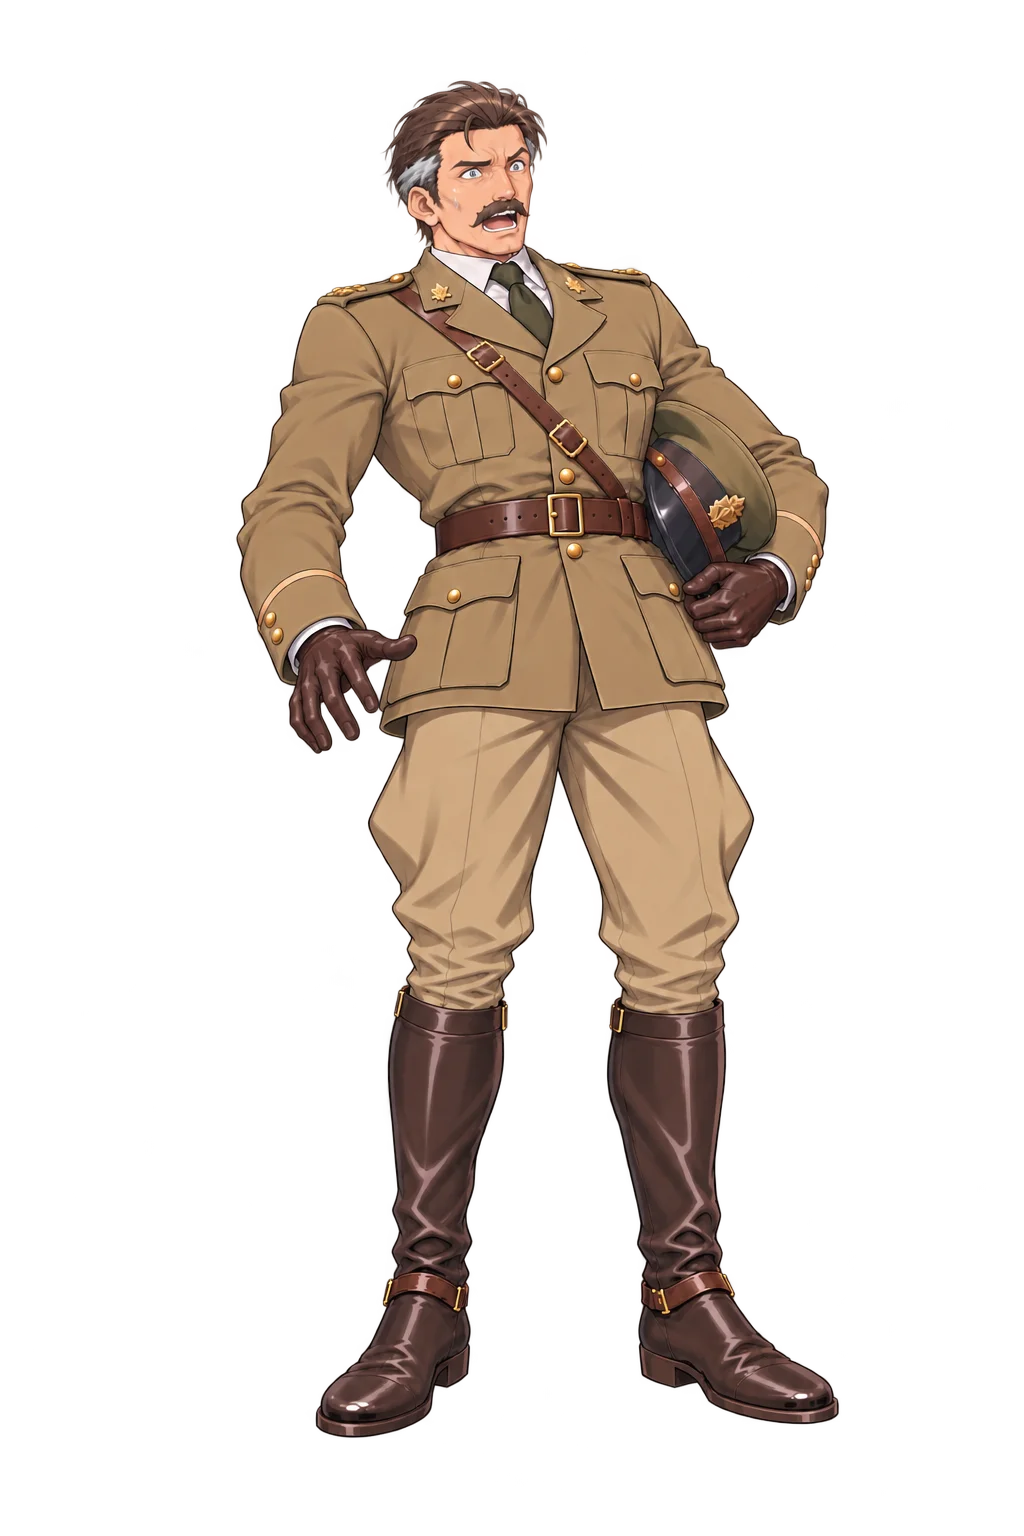
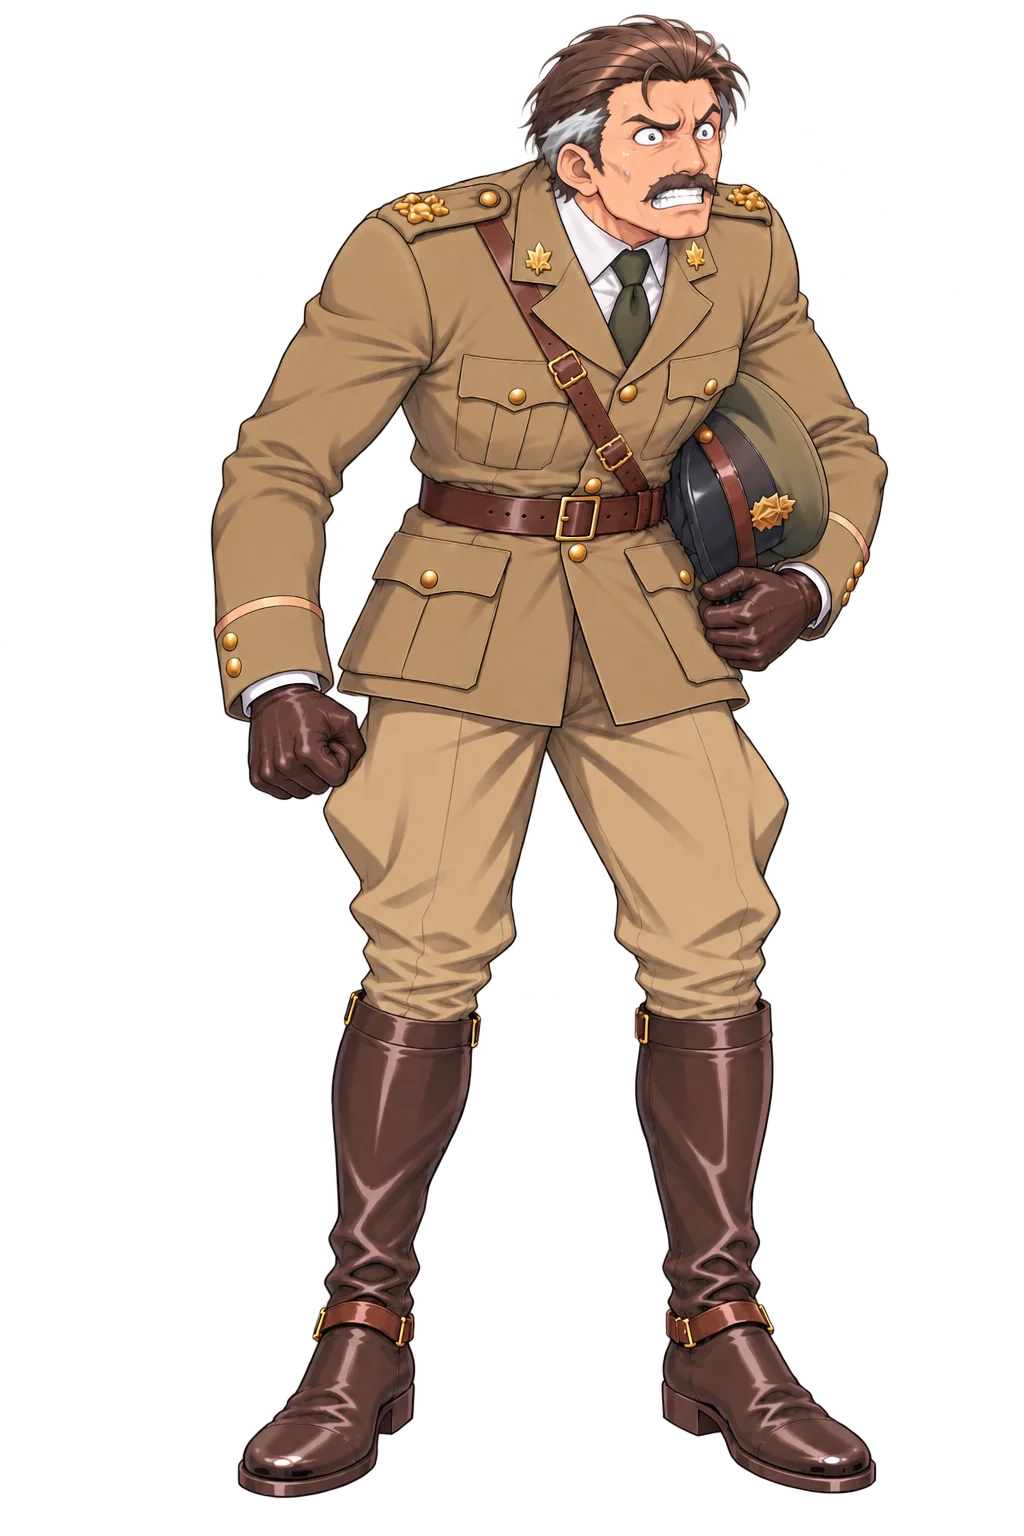
ver -2339／-2340 阿什弗德「震驚」差分重畫：咬牙瞪眼、握拳、冷汗、身體前傾（GPT 直出 alpha，同名覆蓋，取景重量）

Changed region(s): [[0.1875, 0.0, 0.875, 1.0]]

diff --git a/index.html b/index.html
@@ -16,7 +16,7 @@
 <link rel="apple-touch-icon" href="resources/background/tivot_emblem.png?v=9220f8bb">
 <title>TIVOT</title>
 <!-- 全域鎖直向（真鎖 + 橫向擋板）；classic script，需在版面就緒前掛上 -->
-<script src="orientation.js?v=2338"></script>
+<script src="orientation.js?v=2340"></script>
 <!-- 離線包（ver -2256）：註冊 sw.js；主畫面 App 裡出現「下載離線包」鈕 -->
 <script src="offline.js"></script>
 <!-- ══ 效能探針・計數層（ver -850，Ray：「沒有辦法寫一個偵測程式進去看是什麼
@@ -65,74 +65,74 @@
 <script type="importmap">
 {
   "imports": {
-    "./audio.js": "./audio.js?v=2338",
-    "./config.js": "./config.js?v=2338",
-    "./i18n.js": "./i18n.js?v=2338",
-    "./main.js": "./main.js?v=2338",
-    "./offline.js": "./offline.js?v=2338",
-    "./orientation.js": "./orientation.js?v=2338",
-    "./state.js": "./state.js?v=2338",
-    "./sw.js": "./sw.js?v=2338",
-    "./telemetry.js": "./telemetry.js?v=2338",
-    "./modules/beatpick.js": "./modules/beatpick.js?v=2338",
-    "./modules/blink.js": "./modules/blink.js?v=2338",
-    "./modules/breath.js": "./modules/breath.js?v=2338",
-    "./modules/combat.js": "./modules/combat.js?v=2338",
-    "./modules/defense.js": "./modules/defense.js?v=2338",
-    "./modules/enemy.js": "./modules/enemy.js?v=2338",
-    "./modules/eyefx.js": "./modules/eyefx.js?v=2338",
-    "./modules/gear.js": "./modules/gear.js?v=2338",
-    "./modules/groundShadow.js": "./modules/groundShadow.js?v=2338",
-    "./modules/haptics.js": "./modules/haptics.js?v=2338",
-    "./modules/inn.js": "./modules/inn.js?v=2338",
-    "./modules/inspector.js": "./modules/inspector.js?v=2338",
-    "./modules/loot.js": "./modules/loot.js?v=2338",
-    "./modules/partner.js": "./modules/partner.js?v=2338",
-    "./modules/saint.js": "./modules/saint.js?v=2338",
-    "./modules/sakura.js": "./modules/sakura.js?v=2338",
-    "./modules/save.js": "./modules/save.js?v=2338",
-    "./modules/settings.js": "./modules/settings.js?v=2338",
-    "./modules/story.js": "./modules/story.js?v=2338",
-    "./modules/sway.js": "./modules/sway.js?v=2338",
-    "./modules/tone.js": "./modules/tone.js?v=2338",
-    "./modules/town.js": "./modules/town.js?v=2338",
-    "./modules/transition.js": "./modules/transition.js?v=2338",
-    "./modules/tutorial.js": "./modules/tutorial.js?v=2338",
-    "./modules/weapon.js": "./modules/weapon.js?v=2338",
-    "./script/bg_index.js": "./script/bg_index.js?v=2338",
-    "./script/blink.js": "./script/blink.js?v=2338",
-    "./script/clock.js": "./script/clock.js?v=2338",
-    "./script/enemies.js": "./script/enemies.js?v=2338",
-    "./script/evaluation.js": "./script/evaluation.js?v=2338",
-    "./script/eyefx.js": "./script/eyefx.js?v=2338",
-    "./script/inventory.js": "./script/inventory.js?v=2338",
-    "./script/loadout.js": "./script/loadout.js?v=2338",
-    "./script/mainScript.js": "./script/mainScript.js?v=2338",
-    "./script/progress.js": "./script/progress.js?v=2338",
-    "./script/shopcards.js": "./script/shopcards.js?v=2338",
-    "./script/shopstock.js": "./script/shopstock.js?v=2338",
-    "./script/speakers.js": "./script/speakers.js?v=2338",
-    "./script/sway.js": "./script/sway.js?v=2338",
-    "./script/town.js": "./script/town.js?v=2338",
-    "./script/weapons.js": "./script/weapons.js?v=2338",
-    "./i18n/en.js": "./i18n/en.js?v=2338",
-    "./i18n/es.js": "./i18n/es.js?v=2338",
-    "./i18n/ja.js": "./i18n/ja.js?v=2338",
-    "./i18n/scriptTr.js": "./i18n/scriptTr.js?v=2338",
-    "./i18n/zh.js": "./i18n/zh.js?v=2338",
-    "./i18n/script/es.classic.js": "./i18n/script/es.classic.js?v=2338",
-    "./i18n/script/es.js": "./i18n/script/es.js?v=2338",
-    "./i18n/ui/es.classic.js": "./i18n/ui/es.classic.js?v=2338",
-    "./i18n/ui/es.js": "./i18n/ui/es.js?v=2338"
+    "./audio.js": "./audio.js?v=2340",
+    "./config.js": "./config.js?v=2340",
+    "./i18n.js": "./i18n.js?v=2340",
+    "./main.js": "./main.js?v=2340",
+    "./offline.js": "./offline.js?v=2340",
+    "./orientation.js": "./orientation.js?v=2340",
+    "./state.js": "./state.js?v=2340",
+    "./sw.js": "./sw.js?v=2340",
+    "./telemetry.js": "./telemetry.js?v=2340",
+    "./modules/beatpick.js": "./modules/beatpick.js?v=2340",
+    "./modules/blink.js": "./modules/blink.js?v=2340",
+    "./modules/breath.js": "./modules/breath.js?v=2340",
+    "./modules/combat.js": "./modules/combat.js?v=2340",
+    "./modules/defense.js": "./modules/defense.js?v=2340",
+    "./modules/enemy.js": "./modules/enemy.js?v=2340",
+    "./modules/eyefx.js": "./modules/eyefx.js?v=2340",
+    "./modules/gear.js": "./modules/gear.js?v=2340",
+    "./modules/groundShadow.js": "./modules/groundShadow.js?v=2340",
+    "./modules/haptics.js": "./modules/haptics.js?v=2340",
+    "./modules/inn.js": "./modules/inn.js?v=2340",
+    "./modules/inspector.js": "./modules/inspector.js?v=2340",
+    "./modules/loot.js": "./modules/loot.js?v=2340",
+    "./modules/partner.js": "./modules/partner.js?v=2340",
+    "./modules/saint.js": "./modules/saint.js?v=2340",
+    "./modules/sakura.js": "./modules/sakura.js?v=2340",
+    "./modules/save.js": "./modules/save.js?v=2340",
+    "./modules/settings.js": "./modules/settings.js?v=2340",
+    "./modules/story.js": "./modules/story.js?v=2340",
+    "./modules/sway.js": "./modules/sway.js?v=2340",
+    "./modules/tone.js": "./modules/tone.js?v=2340",
+    "./modules/town.js": "./modules/town.js?v=2340",
+    "./modules/transition.js": "./modules/transition.js?v=2340",
+    "./modules/tutorial.js": "./modules/tutorial.js?v=2340",
+    "./modules/weapon.js": "./modules/weapon.js?v=2340",
+    "./script/bg_index.js": "./script/bg_index.js?v=2340",
+    "./script/blink.js": "./script/blink.js?v=2340",
+    "./script/clock.js": "./script/clock.js?v=2340",
+    "./script/enemies.js": "./script/enemies.js?v=2340",
+    "./script/evaluation.js": "./script/evaluation.js?v=2340",
+    "./script/eyefx.js": "./script/eyefx.js?v=2340",
+    "./script/inventory.js": "./script/inventory.js?v=2340",
+    "./script/loadout.js": "./script/loadout.js?v=2340",
+    "./script/mainScript.js": "./script/mainScript.js?v=2340",
+    "./script/progress.js": "./script/progress.js?v=2340",
+    "./script/shopcards.js": "./script/shopcards.js?v=2340",
+    "./script/shopstock.js": "./script/shopstock.js?v=2340",
+    "./script/speakers.js": "./script/speakers.js?v=2340",
+    "./script/sway.js": "./script/sway.js?v=2340",
+    "./script/town.js": "./script/town.js?v=2340",
+    "./script/weapons.js": "./script/weapons.js?v=2340",
+    "./i18n/en.js": "./i18n/en.js?v=2340",
+    "./i18n/es.js": "./i18n/es.js?v=2340",
+    "./i18n/ja.js": "./i18n/ja.js?v=2340",
+    "./i18n/scriptTr.js": "./i18n/scriptTr.js?v=2340",
+    "./i18n/zh.js": "./i18n/zh.js?v=2340",
+    "./i18n/script/es.classic.js": "./i18n/script/es.classic.js?v=2340",
+    "./i18n/script/es.js": "./i18n/script/es.js?v=2340",
+    "./i18n/ui/es.classic.js": "./i18n/ui/es.classic.js?v=2340",
+    "./i18n/ui/es.js": "./i18n/ui/es.js?v=2340"
   }
 }
 </script>
 <!-- BUST:END -->
-<link rel="stylesheet" href="style.css?v=2338">
+<link rel="stylesheet" href="style.css?v=2340">
   <!-- 拾得道具／道具欄／商店／懸賞榜（ver -380 抽出，飛行頁共用同一份）。
        ⚠ `data-lootsheet` 是給 `modules/loot.js` 認的：它看到已經掛過就不再掛一次。
          飛行頁沒有這一行，由那支模組自己掛上去。 -->
-  <link rel="stylesheet" href="css/lootsheet.css?v=2338" data-lootsheet="1">
+  <link rel="stylesheet" href="css/lootsheet.css?v=2340" data-lootsheet="1">
 <!-- 主畫面 App（standalone）偵測：首繪前在 <html> 蓋 .standalone，
      供 CSS 修 iOS 26 版面視窗少算頂部安全區高度（底部露黑帶）的問題 -->
 <script>
@@ -778,6 +778,6 @@
      ⚠ src 是**按下去才給**的（lazy）：不然每次開機都要多載一整個飛行頁。 -->
 <iframe id="flightFrame" title="飛行"></iframe>
 
-<script type="module" src="main.js?v=2338"></script>
+<script type="module" src="main.js?v=2340"></script>
 </body>
 </html>

diff --git a/flight/index.html b/flight/index.html
@@ -3,7 +3,7 @@
 <head>
 <meta charset="utf-8">
 <meta name="viewport" content="width=device-width,initial-scale=1,maximum-scale=1,user-scalable=no,viewport-fit=cover">
-<script src="../orientation.js?v=2338"></script>
+<script src="../orientation.js?v=2340"></script>
 <script>
 /* 介面字譯文（ver -1909）：這一頁是非模組，程式一開跑就讀字串 —— 所以譯文表要**同步**載
    （document.write，只在選了有譯文的語言時）。語言判定與 i18n.js 的 LANG 同一套
@@ -11,7 +11,7 @@
 (function(){
   var l=null; try{ l=localStorage.getItem('tivot.lang'); }catch(e){}
   if(!l){ try{ var n=(navigator.languages&&navigator.languages[0])||navigator.language||''; if(String(n).toLowerCase().indexOf('es')===0) l='es'; }catch(e){} }
-  if(['es'].indexOf(l)>=0) document.write('<script src="../i18n/script/'+l+'.classic.js?v=2338"><\/script><script src="../i18n/ui/'+l+'.classic.js?v=2338"><\/script>');
+  if(['es'].indexOf(l)>=0) document.write('<script src="../i18n/script/'+l+'.classic.js?v=2340"><\/script><script src="../i18n/ui/'+l+'.classic.js?v=2340"><\/script>');
 })();
 function i18nT(s){ var t=window.__TIVOT_TR; return (t && typeof s==='string' && t[s]!=null) ? t[s] : s; }
 document.addEventListener('DOMContentLoaded', function(){
@@ -236,7 +236,7 @@ document.addEventListener('DOMContentLoaded', function(){
   /* ver -2217：門圖含楣（kerberos_gate，＝主遊戲同一張）—— 底圖往上延伸到楣的上緣（--fk-gate-top，負值，layoutFKerb 寫）。
      畫在 ::before：門的子元素（紋章／箭／鉚釘）排在它之後，自然疊在上面。 */
   #fkerbDoor::before{content:'';position:absolute;left:0;right:0;top:var(--fk-gate-top,0px);bottom:0;
-    background-image:url('../resources/vfx/kerberos_gate.webp?v=2338');
+    background-image:url('../resources/vfx/kerberos_gate.webp?v=2340');
     background-repeat:no-repeat;background-size:100% 100%;pointer-events:none;}
   #fkerb.rise #fkerbDoor{transform:translateY(calc(var(--fkerb-rise,0px) * -1));}
   /* 楣與其餘零件：全部是門的子元素＝同一剛體，門上推它們跟著上去
@@ -259,8 +259,8 @@ document.addEventListener('DOMContentLoaded', function(){
       radial-gradient(circle at 50% 22%, rgba(0,0,0,.72) 40%, rgba(0,0,0,0) 78%);
     box-shadow:inset 0 3px 7px rgba(0,0,0,.85);}
   #fkerbGear .fkg-shine{position:absolute;inset:0;mix-blend-mode:screen;opacity:.8;
-    -webkit-mask-image:url("../resources/vfx/kerberos_gear.webp?v=2338");
-    mask-image:url("../resources/vfx/kerberos_gear.webp?v=2338");
+    -webkit-mask-image:url("../resources/vfx/kerberos_gear.webp?v=2340");
+    mask-image:url("../resources/vfx/kerberos_gear.webp?v=2340");
     -webkit-mask-size:100% 100%;mask-size:100% 100%;
     -webkit-mask-repeat:no-repeat;mask-repeat:no-repeat;
     background:linear-gradient(114deg,
@@ -280,8 +280,8 @@ document.addEventListener('DOMContentLoaded', function(){
     filter:drop-shadow(0 3px 7px rgba(0,0,0,.9)) drop-shadow(0 0 2px rgba(0,0,0,.8));}
   #fkerbPend .fkp-shine{position:absolute;inset:0;pointer-events:none;
     mix-blend-mode:screen;opacity:.85;
-    -webkit-mask-image:url("../resources/vfx/kerberos_pendant.webp?v=2338");
-    mask-image:url("../resources/vfx/kerberos_pendant.webp?v=2338");
+    -webkit-mask-image:url("../resources/vfx/kerberos_pendant.webp?v=2340");
+    mask-image:url("../resources/vfx/kerberos_pendant.webp?v=2340");
     -webkit-mask-size:100% 100%;mask-size:100% 100%;
     -webkit-mask-repeat:no-repeat;mask-repeat:no-repeat;
     background:linear-gradient(114deg,
@@ -646,23 +646,23 @@ img:not([src]), img[src=""], img.img-broken{visibility:hidden !important;}
        ⚠ 要有，否則交棒那一格齒輪會憑空冒出來（同吊墜的理由）。
        ⚠ 排在 `.fk-plate` 之前 ＝ 團徽之下、槍棺之上。 -->
   <div id="fkerbGear"><i class="fkg-well"></i>
-    <img src="../resources/vfx/kerberos_gear.webp?v=2338" alt=""><i class="fkg-shine"></i></div>
+    <img src="../resources/vfx/kerberos_gear.webp?v=2340" alt=""><i class="fkg-shine"></i></div>
   <div id="fkerbGearSm"><i class="fkg-well"></i>
-    <img src="../resources/vfx/kerberos_gear.webp?v=2338" alt=""></div>
-  <img class="fk-plate" src="../resources/vfx/kerberos_plate.webp?v=2338" alt="">
-  <img class="fk-arrow n" src="../resources/vfx/kerberos_arrow.webp?v=2338" alt="">
-  <img class="fk-arrow e" src="../resources/vfx/kerberos_arrow.webp?v=2338" alt="">
-  <img class="fk-arrow s" src="../resources/vfx/kerberos_arrow.webp?v=2338" alt="">
-  <img class="fk-arrow w" src="../resources/vfx/kerberos_arrow.webp?v=2338" alt="">
-  <img class="fk-rivet r10" src="../resources/vfx/kerberos_rivet.webp?v=2338" alt="">
-  <img class="fk-rivet r2"  src="../resources/vfx/kerberos_rivet.webp?v=2338" alt="">
-  <img class="fk-rivet r4"  src="../resources/vfx/kerberos_rivet.webp?v=2338" alt="">
-  <img class="fk-rivet r8"  src="../resources/vfx/kerberos_rivet.webp?v=2338" alt="">
+    <img src="../resources/vfx/kerberos_gear.webp?v=2340" alt=""></div>
+  <img class="fk-plate" src="../resources/vfx/kerberos_plate.webp?v=2340" alt="">
+  <img class="fk-arrow n" src="../resources/vfx/kerberos_arrow.webp?v=2340" alt="">
+  <img class="fk-arrow e" src="../resources/vfx/kerberos_arrow.webp?v=2340" alt="">
+  <img class="fk-arrow s" src="../resources/vfx/kerberos_arrow.webp?v=2340" alt="">
+  <img class="fk-arrow w" src="../resources/vfx/kerberos_arrow.webp?v=2340" alt="">
+  <img class="fk-rivet r10" src="../resources/vfx/kerberos_rivet.webp?v=2340" alt="">
+  <img class="fk-rivet r2"  src="../resources/vfx/kerberos_rivet.webp?v=2340" alt="">
+  <img class="fk-rivet r4"  src="../resources/vfx/kerberos_rivet.webp?v=2340" alt="">
+  <img class="fk-rivet r8"  src="../resources/vfx/kerberos_rivet.webp?v=2340" alt="">
   <!-- 吊墜（ver -412）：與主遊戲同一套（見 index.html 的 #kerbPend 與 style.css）。
        ⚠ 這一頁**必須也有** —— 遭遇時門是在這裡推上來的，交棒之後主遊戲那一半才接手；
          只有一邊掛吊墜的話，交棒那一格會憑空多出一個東西。 -->
   <div id="fkerbPend"><div class="fkp-swing"><div class="fkp-idle">
-    <img src="../resources/vfx/kerberos_pendant.webp?v=2338" alt=""><i class="fkp-shine"></i>
+    <img src="../resources/vfx/kerberos_pendant.webp?v=2340" alt=""><i class="fkp-shine"></i>
   </div></div></div>
 </div></div>
 <div id="boot">
@@ -684,11 +684,11 @@ img:not([src]), img[src=""], img.img-broken{visibility:hidden !important;}
   <div id="bMsg"><small id="bootMsg"></small></div>
 </div>
 
-<script src="settlement.js?v=2338"></script>
+<script src="settlement.js?v=2340"></script>
 <!-- 閒聊對話的**內容**獨立成一支：方便加台詞、加觸發條件而不必碰引擎。
      ⚠ 一般 <script>（非 module）→ TALKS / talkPeriod / talkPick 是全域，
        而且會在下面這段 inline 之前執行完，所以 inline 內可以直接用。 -->
-<script src="talks.js?v=2338"></script>
+<script src="talks.js?v=2340"></script>
 <script>
 /* 破圖框一律不畫（ver -1881，同主頁 main.js 那一支，這一頁是另一個 document）。 */
 document.addEventListener('error', e=>{ const t=e.target; if(t && t.tagName==='IMG') t.classList.add('img-broken'); }, true);
@@ -764,7 +764,7 @@ const COLOR_URL  = 'silvermoon_terrain.png?v=b18827be'  + TERRAIN_V;
    以前是手寫的，於是從 -911 起就沒有人記得動它 —— 而 HUD 上的版本號正是 Ray
    在手機上確認「我現在跑的是哪一版」的唯一依據（鐵律 7：一個量一個計算點；
    ver -626：版本號不動就等於沒有版本號）。**不要手改。** */
-const FLIGHT_VER = 'ver -2338';
+const FLIGHT_VER = 'ver -2340';
 const MAP_SCALE  = 20;
 const INV_SCALE  = 1/MAP_SCALE;
 const PEAK_SCALE = 520;   // 高度圖 255 對應的世界高度（越大山越陡）

diff --git a/script/speakers.js b/script/speakers.js
@@ -1786,7 +1786,7 @@ export const ART = {
               talk:    { rescale:true, src:'resources/si/ashford_si_talk.webp', top:78, bot:1452, fx:0.486 },
               serious: { rescale:true, src:'resources/si/ashford_si_serious.webp', top:76, bot:1463, fx:0.486 },
               smile:   { rescale:true, src:'resources/si/ashford_si_smile.webp', top:73, bot:1462, fx:0.490 },
-              sweat:   { rescale:true, src:'resources/si/ashford_si_sweat.webp', top:80, bot:1437, fx:0.460 },
+              sweat:   { rescale:true, src:'resources/si/ashford_si_sweat.webp?v=67142f0d', top:15, bot:1498, fx:0.645 },   // ver -2340：重畫成震驚＋咬牙瞪眼＋握拳冷汗＋身體前傾（Ray），取景重量（臉偏右）
               phone:   { rescale:true, src:'resources/si/ashford_si_phone.webp', top:80, bot:1444, fx:0.460 },
               think:   { rescale:true, src:'resources/si/ashford_si_think.webp', top:78, bot:1451, fx:0.470 },
               shout:   { rescale:true, src:'resources/si/ashford_si_shout.webp', top:76, bot:1462, fx:0.560 },

diff --git a/config.js b/config.js
@@ -87,7 +87,7 @@ export const HITFX = {
  *     以為是快取卡住 —— 版本號不動就等於沒有版本號）。
  *  ⚠ 它同時是**暖開機戳記的鑰匙**（main.js 的 `WARM_BOOT`）：版本一變，
  *    上一版的戳記就失效 → 下一次開機重跑完整讀取。那正是改版後該有的行為。 */
-export const VERSION = 'ver 2026.10.31-2338';
+export const VERSION = 'ver 2026.10.31-2340';
 
 /* ══ 空中怪 16 隻的戰鬥卡（ver -2268）══ 每一隻一張 `flight_<鍵>`（飛行頁 `battleIdFor` 的命名），
    內容同羽蛇那一場：船戰、艦載武器音、連射間隔 180ms。⚠ 這份鍵清單在三處：這裡／
@@ -5973,6 +5973,7 @@ export const ASSET_VER = {
   'arrhenius_si_surprisejoy': 'eb69c002',
   'arrhenius_si_wrysmile': '0e40f4ad',
   'arrhenius_si_wrysmileopen': 'e7b05e04',
+  'ashford_si_sweat': '67142f0d',
   'belisar_bellroom': '78d98957',
   'belisar_cages': 'ec515e6d',
   'belisar_oldaltar': '6ddfe60d',

diff --git a/modules/story.js b/modules/story.js
@@ -3588,7 +3588,7 @@ const KERB_DIR='resources/vfx/';
    cache-buster（§5：檔名沒變、內容變了，瀏覽器照樣拿舊的那一份，而症狀只是
    「看起來沒變」）。版本號由 `tools/bust.py` 同步，路徑只由 `kerbUrl()` 組（鐵律 8）——
    飛行頁那一半是另一個 document，各有一份，改一邊要改另一邊。 */
-const KERB_V='?v=2338';
+const KERB_V='?v=2340';
 const kerbUrl=n=>KERB_DIR+n+'.webp'+KERB_V;
 /* 門的圖（ver -2218）：**每一道門都要先載完**（劇情讀取頁 `preloadStory`、城鎮那道 `loadScene`）——
    Ray：「讀圖的時候先跑槍棺出來才讀楣」「往上推的時候楣會消失」：合成後的 `kerberos_gate`（門＋楣）
